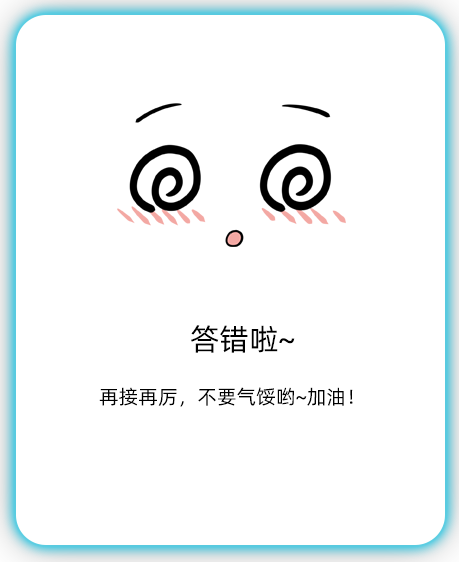
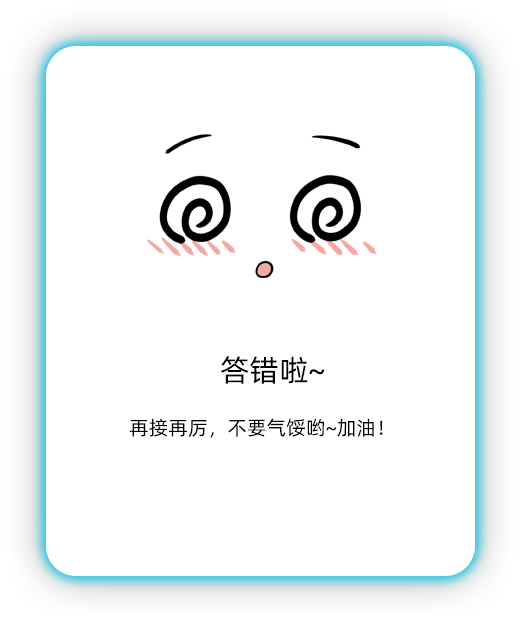
替换图片

diff --git a/frontend/src/views/guess/guess.vue b/frontend/src/views/guess/guess.vue
@@ -101,8 +101,7 @@ export default {
           icon: require("@/assets/guess/result/dc2.png"),
           button: [
             {
-              icon: require("@/assets/guess/result/dd1.png"),
-              // icon: require("@/assets/guess/result/dc1.png"),
+              icon: require("@/assets/guess/result/dc1.png"),
               value: "答错",
             },
           ],
@@ -138,7 +137,7 @@ export default {
     //   var item = subject.find((x) => x.index == index);
     //   newRandomList.push(item);
     // });
-    // this.subObj = newRandomList;
+    // this.subObj = newRandomList; 
     console.log(this.userInfor.answeredIds, "this.userInfor.answeredIds");
     this.subObj = this.shuffle(subject);
     for (let k in this.subObj) {
@@ -232,6 +231,7 @@ export default {
       this.$nextTick(() => {
         setsave_answer(val, 1)
           .then((res) => {
+            debugger
             //更新list
             this.$store.commit("user/SET_ANSWERED_IDS", res.data.answeredIds);
             var currentItem = this.subObj.find((x) => x.number == val);
@@ -255,6 +255,8 @@ export default {
               this.resultData = this.result.answer;
               return;
             }
+
+            debugger
             if (this.userInfor.isAnswerMax) {
               //直接继续答题
               this.resultData = {};
@@ -287,7 +289,10 @@ export default {
       });
     },
     wrongChoose(val) {
+      debugger
       this.popupVisible = false;
+     
+
       this.$nextTick(() => {
         setsave_answer(val, 0)
           .then((res) => {
@@ -299,7 +304,6 @@ export default {
 
             for (var startIndex = nextIndex; startIndex < 30; startIndex++) {
               var nextItem = this.subObj.find((x) => x.i == startIndex);
-              console.log(nextItem, "88851");
               if (!nextItem.notDo) {
                 nextIndex = startIndex;
                 break;
@@ -315,7 +319,6 @@ export default {
               this.resultData = {};
               this.popupVisible = true;
               this.resultData = this.result.incorrectly;
-              console.log(this.subObj[nextIndex], "8884");
               this.resultData.subject = subject[nextIndex];
             }
           })
